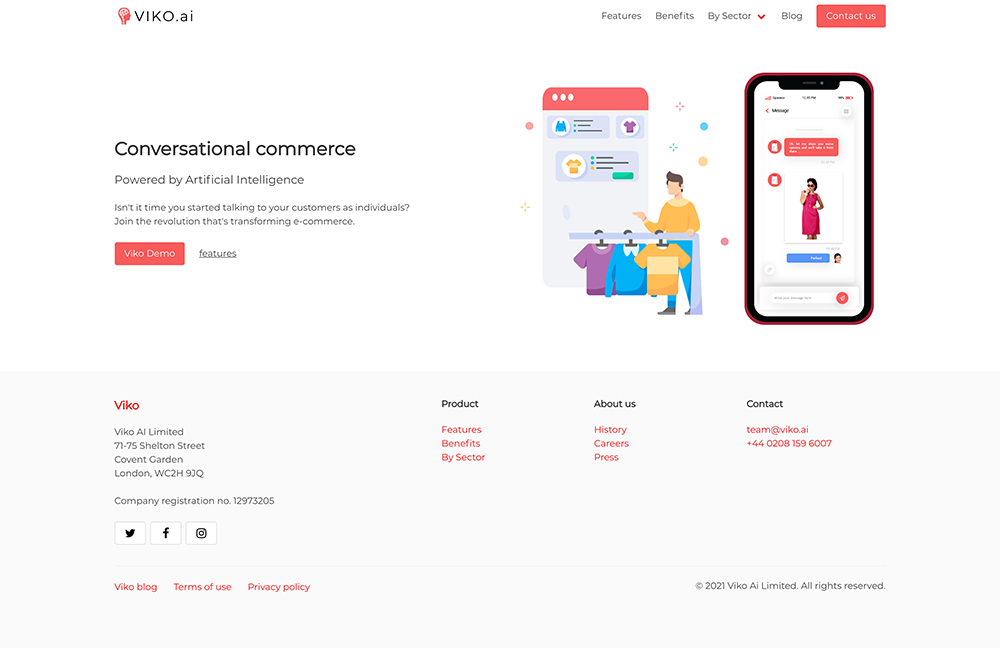
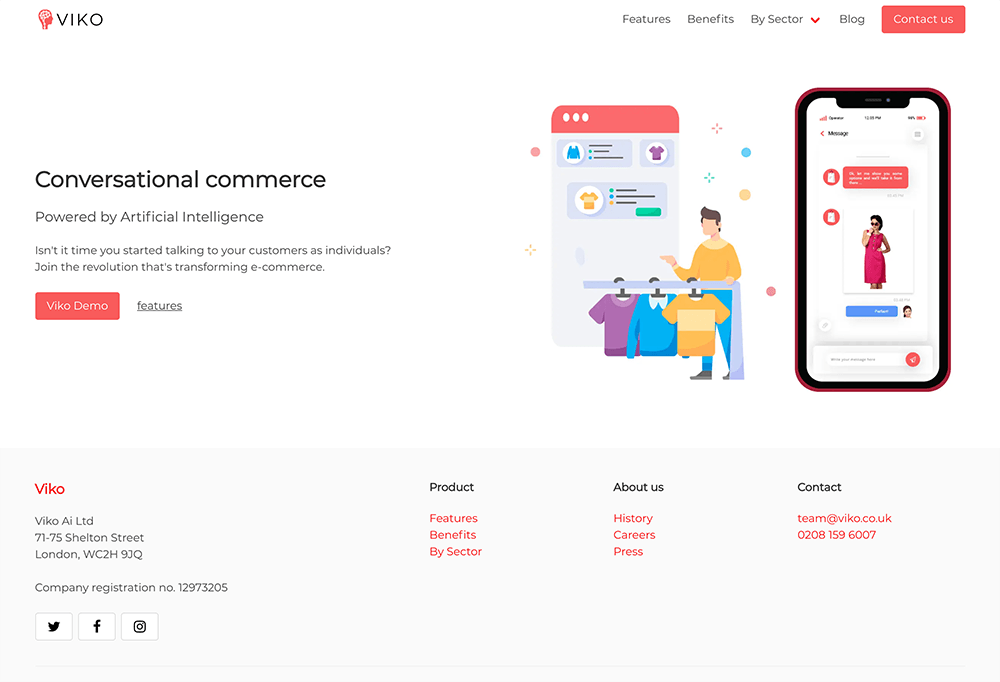
update README to reflect new domain name

diff --git a/README.md b/README.md
@@ -2,7 +2,7 @@
 
 ![Viko Ai logo](readme-images/viko-logo-sm.png)
 
-The theme used for the Viko Ai website. See [www.viko.ai][1] for a real world example. We decided to make this
+The theme used for the Viko Ai website. See [www.viko.co.uk][1] for a real world example. We decided to make this
 theme available to the wider community, hoping it will be of use. This repo also contains a sample Hugo site 
 illustrating how the theme can best be used. The theme itself can be found in the [themes/viko](themes/viko) directory.
 
@@ -32,7 +32,7 @@ Slim JS and CSS along with best practices (e.g. preloading) results in a Pagespe
 
 ![Optimised for speed](readme-images/google-pagespeed-report.png)
 
-**Note**: This score is based on the [www.viko.ai][1] homepage
+**Note**: This score is based on the [www.viko.co.uk][1] homepage
 
 ## Bulma based
 
@@ -69,7 +69,7 @@ Forget the crazy hacks or spammy stuff. Modern SEO basically boils down to:
 * Fast
 * Secure
 
-[1]: https://www.viko.ai
+[1]: https://www.viko.co.uk
 [2]: https://bulma.io
 [3]: https://purgecss.com
 [4]: https://amp.dev

diff --git a/DOCS.md b/DOCS.md
@@ -1,6 +1,6 @@
 # Getting started
 
-This repo contains the basic theme we use for our own [www.viko.ai](https://www.viko.ai) website. We've packaged
+This repo contains the basic theme we use for our own [www.viko.co.uk](https://www.viko.co.uk) website. We've packaged
 the theme within a demo site showing how it can best be used. Although it has some quirks, we have been really 
 impressed with Hugo as a static site generator. For tech focussed organisations we think it's hard to beat.
 
